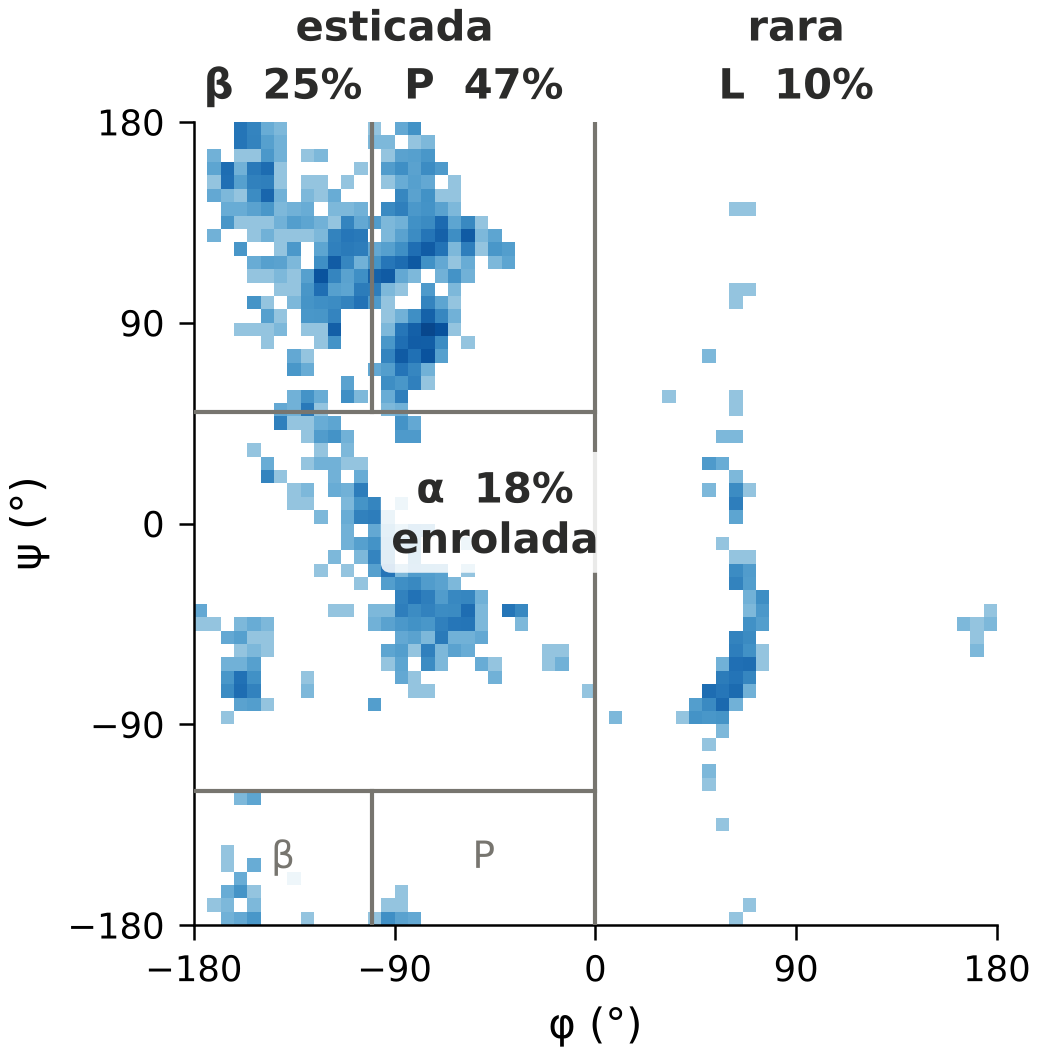
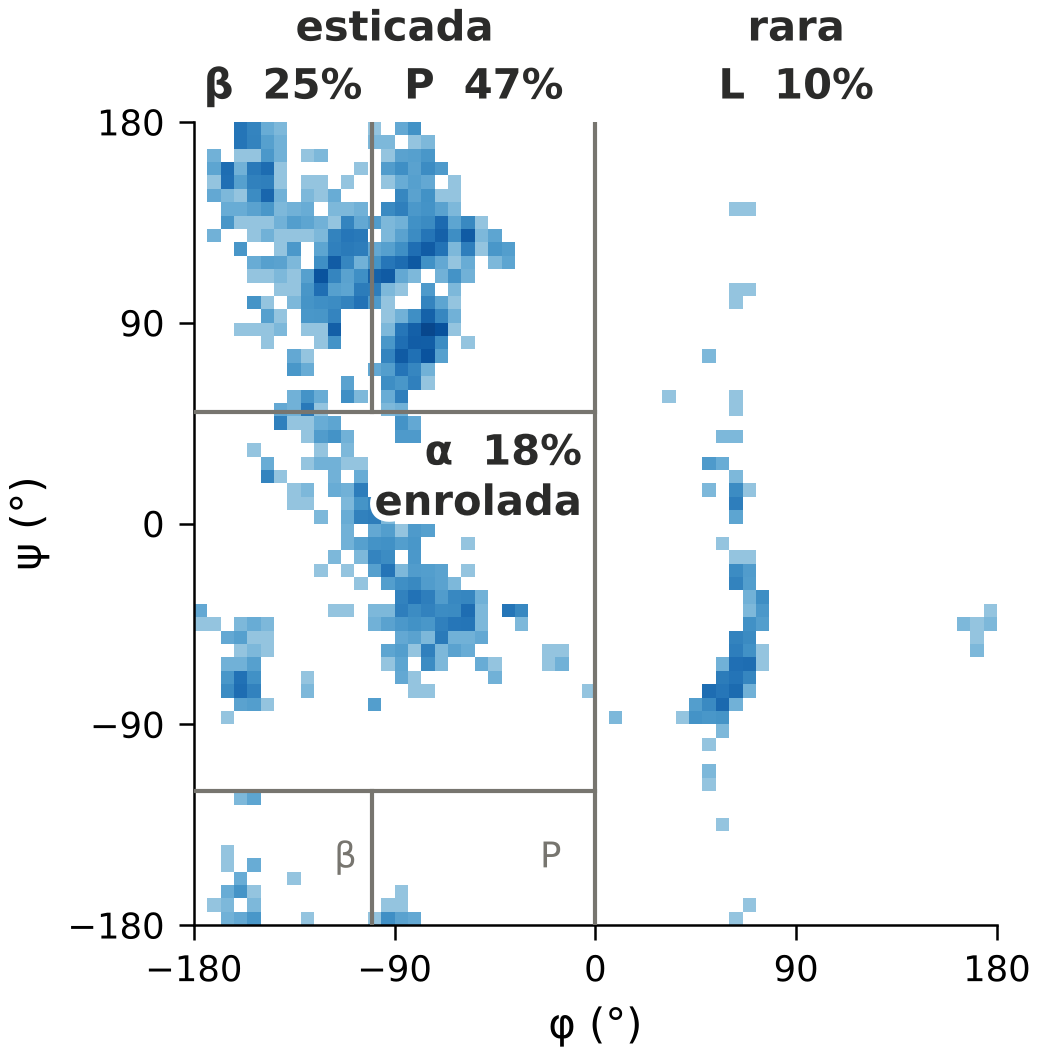
Ramachandran do poster: rotulos fora de cima dos pontos
Claude-Session: https://claude.ai/code/session_01ADsRaC8Wn5aKPjx7oKrTmp

diff --git a/molsim/figuras.py b/molsim/figuras.py
@@ -720,7 +720,6 @@ def fig_rama_poster(d: Dados) -> str:
     ax.set_xlabel("φ (°)", fontsize=10)
     ax.set_ylabel("ψ (°)", fontsize=10)
     ax.tick_params(labelsize=8.5)
-    caixa = {"boxstyle": "round,pad=0.25", "fc": "white", "ec": "none", "alpha": 0.85}
     # β, P e L: rótulo logo acima da faixa de cima, onde estão quase todos os pontos
     for r, x in (("β", -140), ("P", -50), ("L", 90)):
         ax.text(x, 186, f"{r}  {pct(frac[r])}", ha="center", va="bottom", fontsize=10,
@@ -729,12 +728,13 @@ def fig_rama_poster(d: Dados) -> str:
     for x, forma in ((-90, "esticada"), (90, "rara")):
         ax.text(x, 212, forma, ha="center", va="bottom", fontsize=10, fontweight="bold",
                 color=TINTA, clip_on=False)
-    ax.text(-45, 5, f"α  {pct(frac['α'])}\nenrolada", ha="center", va="center", fontsize=10,
-            fontweight="bold", color=TINTA, linespacing=1.2, zorder=5, bbox=caixa)
+    ax.text(-6, 22, f"α  {pct(frac['α'])}\nenrolada", ha="right", va="center", fontsize=10,
+            fontweight="bold", color=TINTA, linespacing=1.2, zorder=5,
+            path_effects=[pe.withStroke(linewidth=3, foreground="white")])
     # a faixa de baixo continua a de cima (ψ = −180° e ψ = 180° são o mesmo ângulo)
-    for r, x in (("β", -140), ("P", -50)):
-        ax.text(x, -150, r, ha="center", va="center", fontsize=9, color="#77756f", zorder=5,
-                bbox=caixa)
+    # nos cantos vazios dessas faixas, para não cobrir os pontos
+    for r, x in (("β", -112), ("P", -20)):
+        ax.text(x, -150, r, ha="center", va="center", fontsize=8.5, color="#77756f", zorder=5)
     salvar(fig, "D_ramachandran_poster")
     return ("Ângulos (φ, ψ) das seis alaninas juntas, nos 2000 frames a 500 K; cor mais escura = "
             "mais frames (escala logarítmica). As linhas cinza separam as regiões usadas nos "
